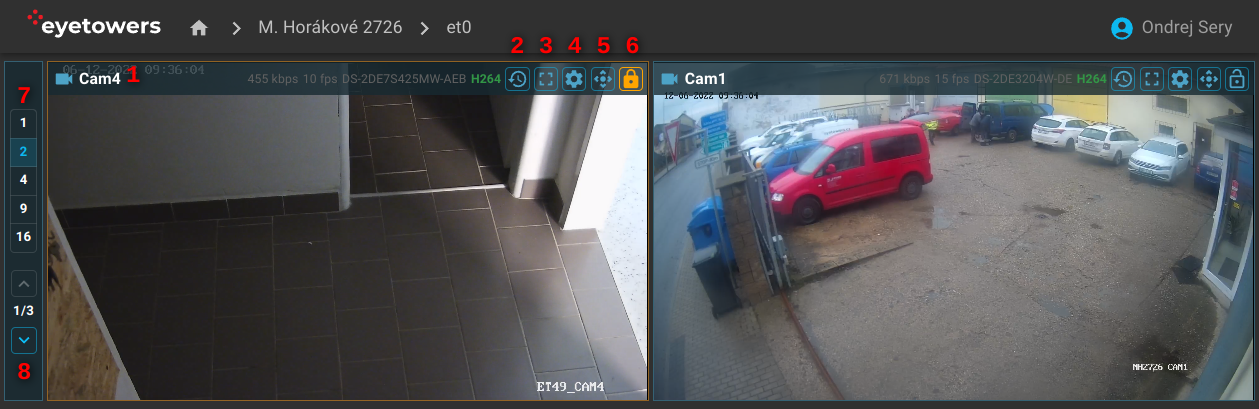
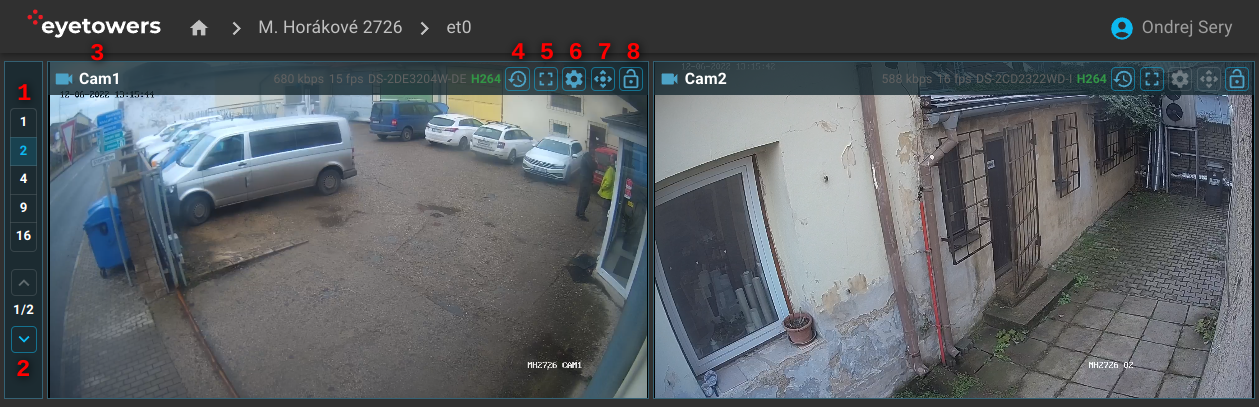
Add video and archive overview page.

diff --git a/cs/video.md b/cs/video.md
@@ -1,0 +1,45 @@
+# Video
+
+Stránka videa obsahuje živý pohled na kamery zvolené jednotky. Podle velikosti displeje zařízení lze
+na jedné stránce zobrazit 1 až 16 kamer (1) a mezi strankami pak přepínat pomocí šipek na klávesnici
+nebo ovládacích prvků s šipkami (2).
+
+![Video](../_media/video_overview.png)
+
+Každá kamera je opatřena hlavičkou (3) s jejím názvem a informacemi o kvalitě video kanálu:
+
+- Datový tok v Kb za vteřinu, `kbps`.
+- Počet snímků za vteřinu, `fps`.
+- Seriové číslo kamery.
+- Stav/typ streamu, ideálně zelené `H264`.
+
+Najetím kurzoru nad název kamery lze zobrazit další informace: rolišení, výrobce a model kamery.
+
+V pravé části hlavičky jsou pak tlačítka k rozšířenému ovládání kamer. Některé z nich můžou být
+neaktivní pokud kamera danou funkci neumožňuje nebo pokud uživatel postrádá oprávnění k jejich
+použití.
+
+Zleva do prava to jsou:
+
+- Vstup do [video archivu](#videoarchiv) (4).
+- Zobrazit danou kameru přes celou obrazovku (5). Některá zařízení s iOS tento režim neumožňují.
+- Zobrazit pokročilá nastavení kamery, např., ovládání a nastavování presetů, IR přísvitu, atd (6).
+- Zobrazit ovládací prvky PTZ, šipky a virtuální joystick (7).
+- Dočasně uzamknout danou kameru na stránce (8). Při stránkování tak vybraná kamera nebo více kamer
+  zůstávají vidět a obměnují se pouze kamery na zbylých pozicích.
+
+Kliknutím do obrazu kamery danou kameru zvětšíte do samostatného okna a opětovným kliknutím zase
+zmenšíte.
+
+## Videoarchiv
+
+V režimu videoarchivu je možné procházet uložený video záznam synchronizovaně na více kamerách
+zároveň.
+
+Přesný čas lze buď vybrat s pomocí kalendáře (1) nebo použitím časové osy (2). Rozlišení časové osy
+lze zvolit od 10 minut až po jeden celý den (9). Tlačítky (3) a (7) lze záznam posunout o celou
+délku časové osy dozadu (3) či dopředu (7). Tlačítky (4) a (6) pak o 30 vteřin. Tlačítko (5) slouží
+k pozastavení a opětovnému spuštění přehrávání záznamu. Rychlost přehrávání lze zvolit mezi 1/2x až
+32x volbou (8). Režim videoarchivu ukončíte tlačítkem (10), které stránku přepne do živého pohledu.
+
+![Videoarchiv](../_media/recording_overview.png)

diff --git a/en/video.md b/en/video.md
@@ -1,0 +1,47 @@
+# Video
+
+The video page displays live camera views for the chosen unit. Depending on your display size, you
+can pick how many cameras should be displayed on a single page ranging between 1 and 16 (1). To
+stwitch between pages, use either keyboard or controls with arrows (2).
+
+![Video](../_media/video_overview.png)
+
+Every camera has a header (3) with its name and information about stream quality:
+
+- Bandwidth in Kb per second, `kbps`.
+- Number of frames per second, `fps`.
+- Camera serial number.
+- State/type of the stream, ideally `H264` in green.
+
+Additional camera detail are displayed after hover on the camera name: resolution, camera
+manufacturer and model.
+
+The right side of the header contains buttons for extended camera controls. Some of these are
+inactive if the camera does not support the particular functionality or if the user is missing the
+required permissions.
+
+Left to right these are:
+
+- Enter [video archive](#video-archive) (4).
+- Show the camera in the fullscreen mode (5). Note that some iOS devices do not support fullscreen
+  mode for web pages.
+- Show advanced camera configuration options (6), e.g., preset use and configuration, IR light, etc.
+- Show PTZ controls, arrow buttons and a virtual joystick (7).
+- Temporarily lock the camera on the page (8). When switching between pages, the locked camera(s)
+  stay on the current view and only the rest of the cameras get replaced.
+
+Click in the view of any camera moves it into a large popup window, closed by another click in it.
+
+## Video Archive
+
+The video archive mode offers synchronous playback of recording from multiple cameras at the same
+time.
+
+The playback time can be chosen using a calendar (1) or via a graphical timeline (2). You can pick
+the resolution/scale of the timeline between 10 minutes and a whole day (9). To jump by the whole
+timeline range forward or backward, use buttons (3) and (7), respectively. For small 30 second jumps
+use buttons (4) and (6). The button (5) pauses and resumes playback. Control (8) sets playback speed
+ranging from 1/2x slowdown to 32x speedup. Last, button (10) exits the video archive mode and
+switches all cameras back into the live view.
+
+![Video Archive](../_media/recording_overview.png)

diff --git a/cs/README.md b/cs/README.md
@@ -8,7 +8,6 @@ Tato stránka obsahuje uživatelskou dokumentaci k softwarovým produktům EyeTo
 - [Přístup](cs/access.md)
 - [Alarm](cs/alarm.md)
 - [Video](cs/video.md)
-- [Archiv](cs/recording.md)
 - [Často kladené otázky](cs/faq.md)
 - [Podpora](cs/support.md)
 

diff --git a/en/README.md b/en/README.md
@@ -8,7 +8,6 @@ This page contains user documentation for the EyeTowers software products.
 - [Access](en/access.md)
 - [Alarm](en/alarm.md)
 - [Video](en/video.md)
-- [Archive](en/archive.md)
 - [FAQ](en/faq.md)
 - [Support](en/support.md)
 

diff --git a/cs/_sidebar.md b/cs/_sidebar.md
@@ -3,6 +3,5 @@
 - [Přístup](cs/access.md)
 - [Alarm](cs/alarm.md)
 - [Video](cs/video.md)
-- [Archiv](cs/recording.md)
 - [Často kladené otázky](cs/faq.md)
 - [Podpora](cs/support.md)

diff --git a/en/_sidebar.md b/en/_sidebar.md
@@ -3,6 +3,5 @@
 - [Access](en/access.md)
 - [Alarm](en/alarm.md)
 - [Video](en/video.md)
-- [Archive](en/archive.md)
 - [FAQ](en/faq.md)
 - [Support](en/support.md)
